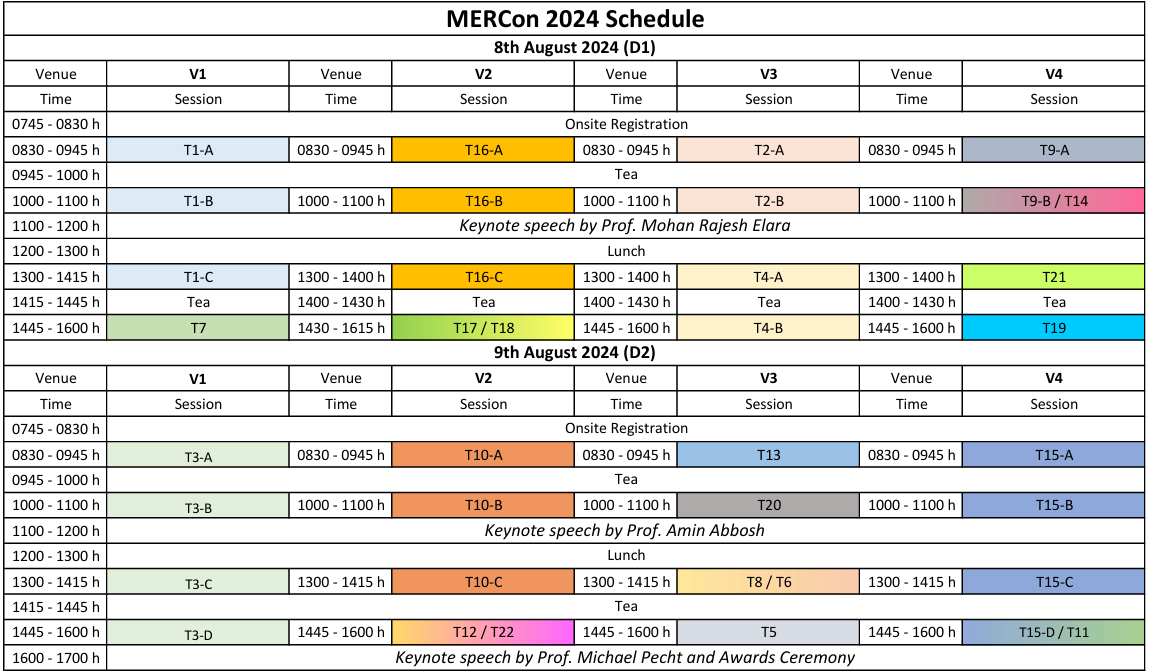
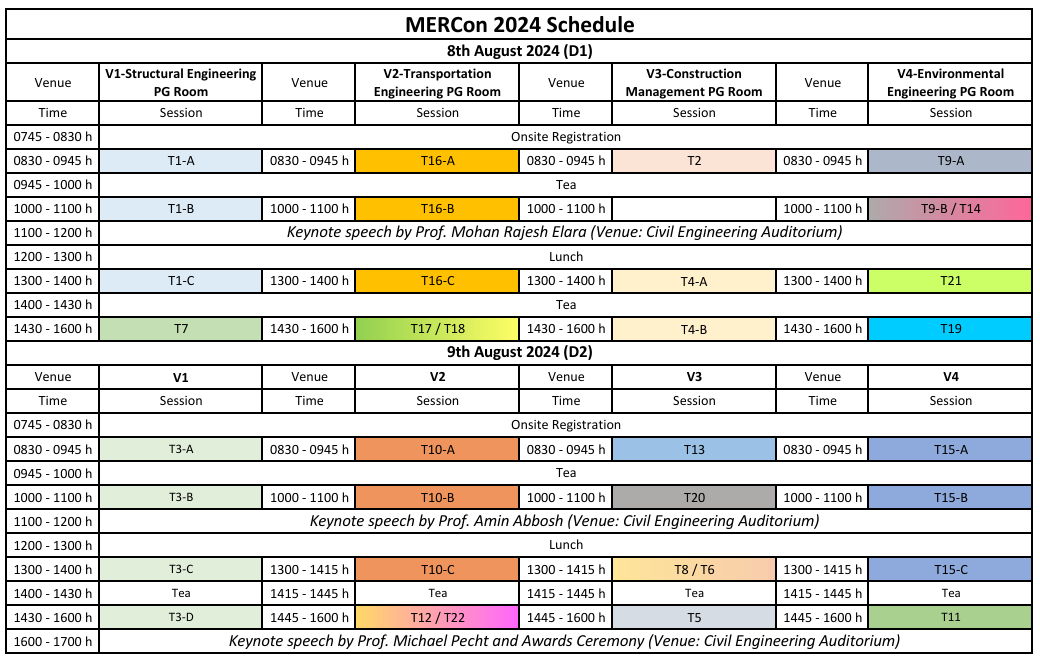
change the EDAS link and upload the schedule

diff --git a/program.html b/program.html
@@ -62,7 +62,7 @@
       <div class="width-fixed-large">
         
         <p style="padding:30px 0px 30px 100px; font-size: 16px;" ><b>Conference proceedings with full papers:&nbsp;</b>   
-          <a href="https://edas.info/N32170" target="_blank"><button class="btn btn-primary">Go to EDAS</button></a>
+          <a href="https://edas.info/showProgram.php?c=32170" target="_blank"><button class="btn btn-primary">Go to EDAS</button></a>
         </p>
 
       
@@ -76,8 +76,15 @@
           top: 50%;
           text-align: center;">
 
-          <img src="./img/program/Overall schedule.png" style="width: 80%; height: 80%; margin-left: 10px;"> 
+          <img src="./img/program/Overall schedule.png" style="width: 70%; height: 70%; margin-left: 10px;"> 
         </div>
+        <div style="
+        position: relative;
+        top: 50%;
+        text-align: center;">
+
+        <img src="./img/program/places.png" style="width: 35%; height: 35%; margin-left: 10px;"> 
+      </div>
       </div>
       
       
